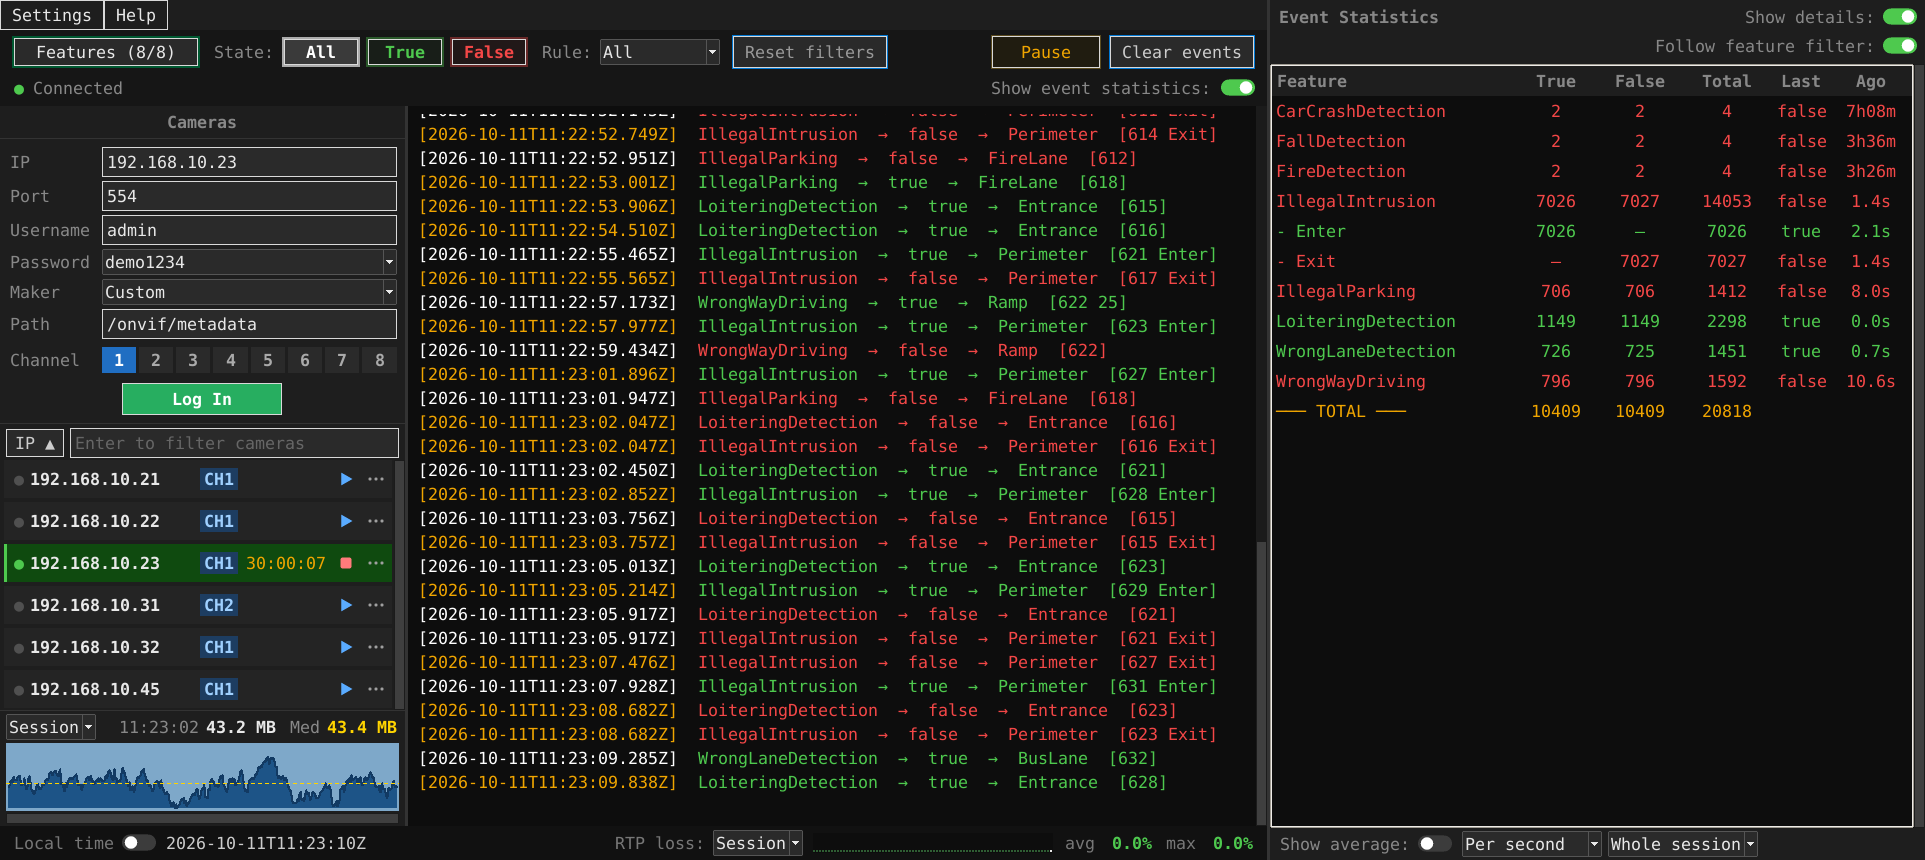
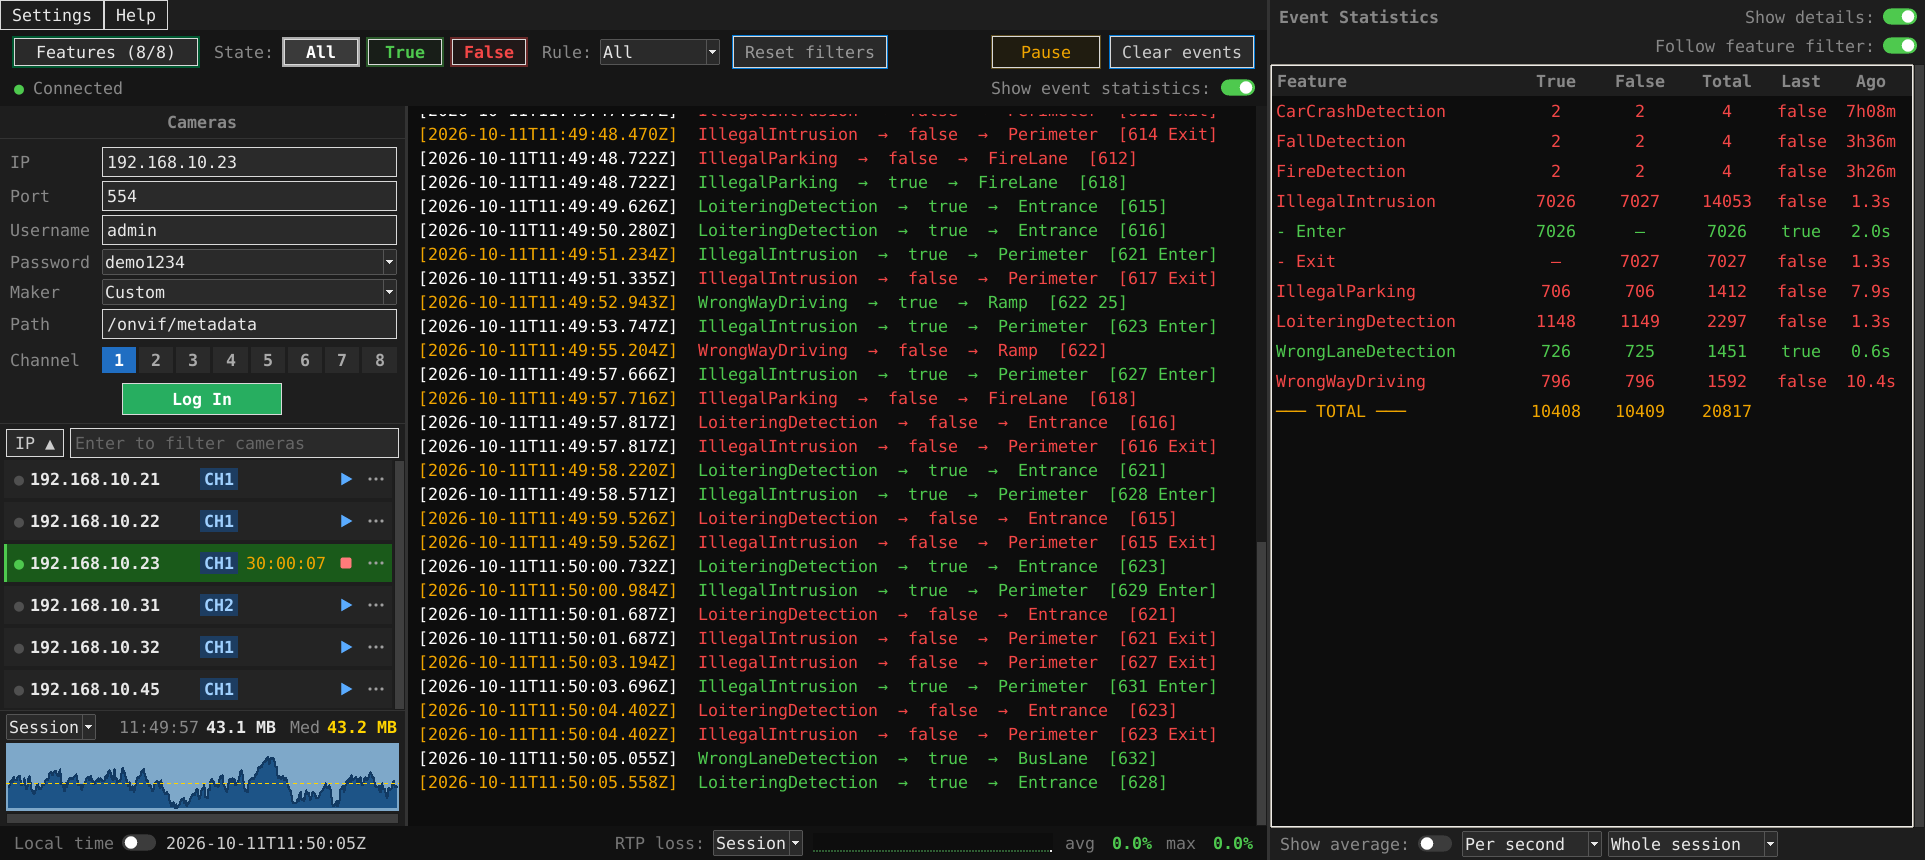
Six event colors and backgrounds, lighter active camera row

diff --git a/index.html b/index.html
@@ -346,7 +346,7 @@ const DEMO_VIDEO = "media/demo.mp4";
 const DEMO_POSTER = "media/demo.jpg";
 // The screenshots' revision: tools/demo_screenshots.py sets it when it saves new
 // ones, so browsers and the Pages CDN fetch them again instead of a cached copy.
-const MEDIA_REV = "202610111123";
+const MEDIA_REV = "202610111150";
 const SCREENSHOTS = [
   ["media/screenshot-1.png", "Main window after 30 hours: cameras, live event log, memory and RTP loss"],
   ["media/screenshot-2.png", "Choose the camera's maker: the path of its metadata stream is filled in"],
